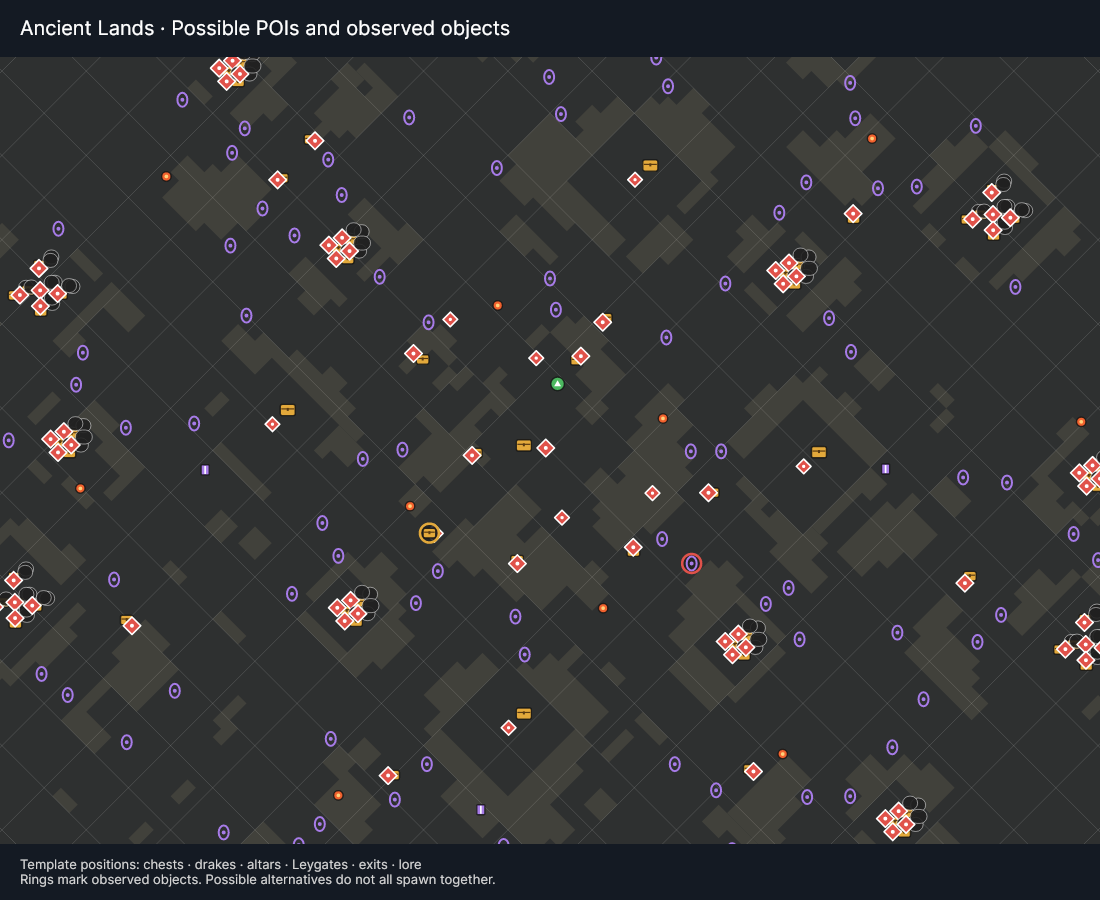
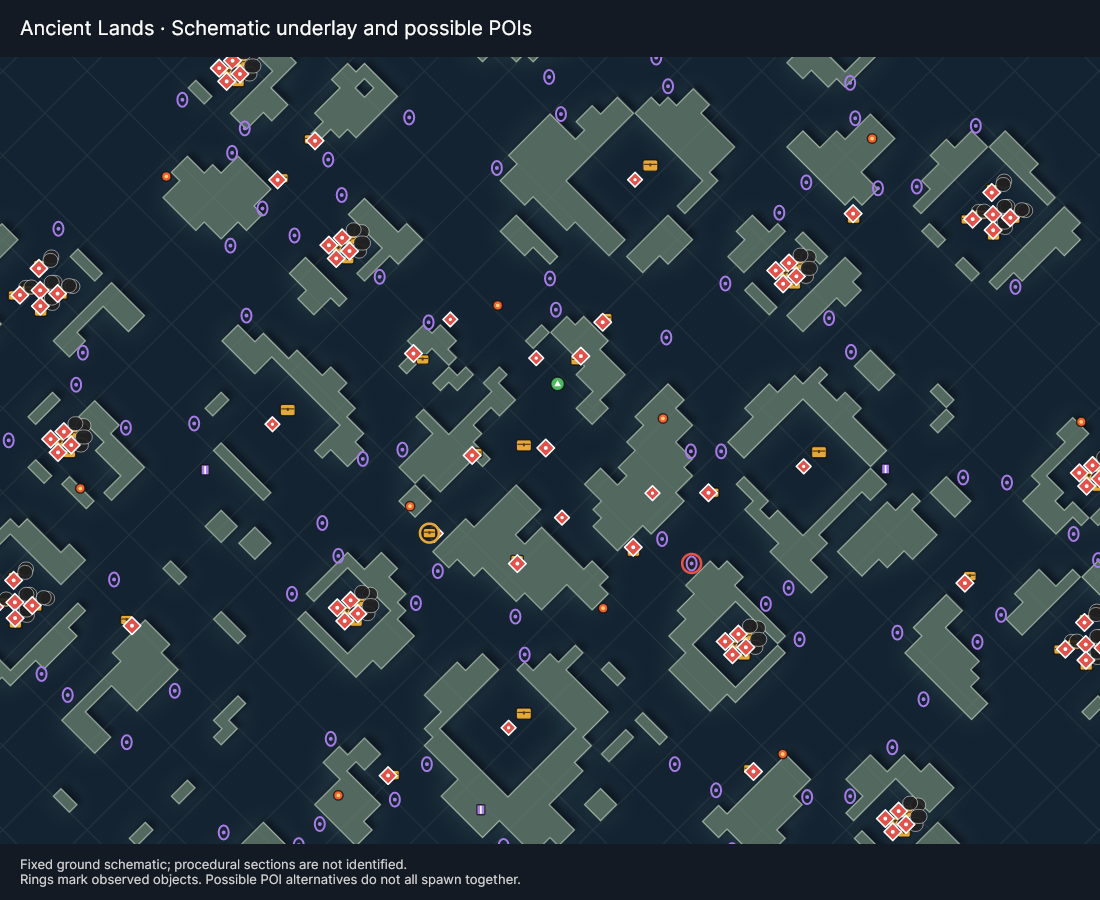
Add a bundled Ancient Lands schematic underlay

diff --git a/scripts/generate-ancient-lands-map.py b/scripts/generate-ancient-lands-map.py
@@ -112,6 +112,47 @@ def ground_cells(tiles):
     return cells
 
 
+def render_underlay(outline, low, high):
+    """Cartographic schematic, not game artwork or a navigability/elevation map.
+
+    Pixels use the declared world bounds: positive X/Z run right/down. The land
+    mask is exactly the exported five-metre cells; decoration never adds ground.
+    """
+    from PIL import Image, ImageChops, ImageDraw, ImageFilter
+    width, height = round(high[0]-low[0]), round(high[1]-low[1])
+    mask = Image.new('L', (width, height))
+    draw = ImageDraw.Draw(mask)
+    for a, b, c, d in outline:
+        draw.rectangle((round(a-low[0]), round(b-low[1]), round(c-low[0])-1, round(d-low[1])-1), fill=255)
+    image = Image.new('RGB', mask.size, '#142331')
+    # A diffuse rim and a small drop shadow separate known ground from the void.
+    halo = mask.filter(ImageFilter.GaussianBlur(9))
+    image.paste('#29414a', mask=halo)
+    shadow = Image.new('L', mask.size)
+    shadow.paste(mask, (0, 5))
+    image.paste('#0b151f', mask=shadow.filter(ImageFilter.GaussianBlur(3)))
+    image.paste('#53685f', mask=mask)
+    edge = ImageChops.subtract(mask, mask.filter(ImageFilter.MinFilter(3)))
+    image.paste('#9eafa0', mask=edge)
+    # Regular coordinate grid only: no invented contours, section shapes or paths.
+    grid = Image.new('RGB', mask.size, '#30414a')
+    grid_draw = ImageDraw.Draw(grid)
+    for x in range(math.ceil(low[0]/50)*50, math.ceil(high[0]/50)*50, 50):
+        grid_draw.line((x-low[0], 0, x-low[0], height), fill='#7b8c83')
+    for z in range(math.ceil(low[1]/50)*50, math.ceil(high[1]/50)*50, 50):
+        grid_draw.line((0, z-low[1], width, z-low[1]), fill='#7b8c83')
+    # Overlay only the grid lines, retaining the terrain colors between them.
+    grid_mask = Image.new('L', mask.size)
+    grid_draw = ImageDraw.Draw(grid_mask)
+    for x in range(math.ceil(low[0]/50)*50, math.ceil(high[0]/50)*50, 50):
+        grid_draw.line((x-low[0], 0, x-low[0], height), fill=36)
+    for z in range(math.ceil(low[1]/50)*50, math.ceil(high[1]/50)*50, 50):
+        grid_draw.line((0, z-low[1], width, z-low[1]), fill=36)
+    image.paste(grid, mask=grid_mask)
+    target = ROOT/'AlbionDataAvalonia/Assets/Maps/ancient-lands-schematic.webp'
+    image.save(target, lossless=True, method=6, exact=True)
+
+
 def main(source):
     source = Path(source)
     config = ET.parse(source/'dragonarea.xml').getroot()
@@ -203,6 +244,7 @@ def main(source):
     lines += ['    };','}','']
     target=ROOT/'AlbionDataAvalonia/Maps/AncientLandsMapData.g.cs'
     target.write_text('\n'.join(lines),encoding='utf-8')
+    render_underlay(outline, low, high)
     print('Source',revision,'outline',len(outline),'rectangles; candidates by mode', {k:len(v) for k,v in all_points.items()})
     print('Generic POI kinds',dict(Counter(x[0] for x in all_points['all'])))
 

diff --git a/AlbionDataAvalonia/ViewModels/ActivityMapViewModel.cs b/AlbionDataAvalonia/ViewModels/ActivityMapViewModel.cs
@@ -534,7 +534,7 @@ public sealed partial class ActivityMapViewModel : ObservableObject, IDisposable
                 ? "Showing the standard Abbey orientation. Its rotation has not been confirmed from an exit yet."
             : zone is { Zone: null } && live.Layout is null && AlbionLocations.ResolveActivityLocation(live.RawMapId).Kind == ActivityMapKind.Mists
                 ? "Finding this Mists layout. The map shows once a wisp or exit comes into view."
-            : zone is { Zone.MapCategory: "dragonarea" } ? "Ancient Lands: possible template POIs; alternatives do not all spawn together. Rings mark observed objects; Leygate availability is unknown."
+            : zone is { Zone.MapCategory: "dragonarea" } ? "Ancient Lands schematic from fixed ground geometry; procedural sections are not identified. POIs are possible alternatives; rings mark observations. Leygate availability is unknown."
             : zone is { Image: null, Zone.Outline.Count: > 0 } ? "No minimap for this zone. Its rough outline and rooms come from the game files."
             : zone is { Image: null, Zone.Rooms.Count: > 0 } ? "No minimap for this zone. Its rooms come from the game files."
             : zone is { Image: null } ? "No map image for this zone. Showing available map layers on a coordinate grid."
@@ -704,7 +704,7 @@ public sealed partial class ActivityMapViewModel : ObservableObject, IDisposable
                 ? "This visit has no confirmed Depths orientation. Showing the recorded path and observations."
             : zone is { Zone.MapCategory: "mistsdungeon" } && option.LayoutTurns is null
                 ? "Showing the standard Abbey orientation. No confirmed rotation was recorded for this visit."
-            : zone is { Zone.MapCategory: "dragonarea" } ? "Ancient Lands: possible template POIs; alternatives do not all spawn together. Rings mark observed objects; Leygate availability is unknown."
+            : zone is { Zone.MapCategory: "dragonarea" } ? "Ancient Lands schematic from fixed ground geometry; procedural sections are not identified. POIs are possible alternatives; rings mark observations. Leygate availability is unknown."
             : zone is { Image: null, Zone.Outline.Count: > 0 } ? "No minimap for this zone. Its rough outline and rooms come from the game files."
             : zone is { Image: null, Zone.Rooms.Count: > 0 } ? "No minimap for this zone. Its rooms come from the game files."
             : zone is { Image: null } ? "No map image for this zone. Showing available map layers on a coordinate grid."

diff --git a/AlbionDataAvalonia/Maps/MapDataService.cs b/AlbionDataAvalonia/Maps/MapDataService.cs
@@ -126,8 +126,8 @@ public sealed class MapDataService : IDisposable
             }
 
             var name = Path.GetFileNameWithoutExtension(zone.ImageFile);
-            var image = zone.ImageFile == MistsMapData.AbbeyImageFile
-                ? LoadAbbeyImage()
+            var image = IsBundledImage(zone.ImageFile)
+                ? LoadBundledImage(zone.ImageFile)
                 : LoadBitmapAsync($"{MapsBase}/images/{Uri.EscapeDataString(name)}.webp", Path.Combine("images", SafeFileName(name) + ".webp"));
             images.AddFirst((zone.ImageFile, image));
             // Decoded open-world minimaps are large, so only the last few stay in memory.
@@ -136,16 +136,18 @@ public sealed class MapDataService : IDisposable
         }
     }
 
-    private static Task<Bitmap?> LoadAbbeyImage()
+    private static bool IsBundledImage(string file) => file is MistsMapData.AbbeyImageFile or AncientLandsMapData.ImageFile;
+
+    private static Task<Bitmap?> LoadBundledImage(string file)
     {
         try
         {
-            using var stream = AssetLoader.Open(new Uri(MistsMapData.AbbeyImageFile));
+            using var stream = AssetLoader.Open(new Uri(file));
             return Task.FromResult<Bitmap?>(new Bitmap(stream));
         }
         catch (Exception error) when (error is IOException or InvalidOperationException)
         {
-            Log.Warning(error, "Could not load the bundled Abbey terrain image; using its schematic");
+            Log.Warning(error, "Could not load bundled map image {ImageFile}; using its schematic", file);
             return Task.FromResult<Bitmap?>(null);
         }
     }
@@ -175,7 +177,7 @@ public sealed class MapDataService : IDisposable
     /// but for the Mists and Depths spots that come with the app.</summary>
     public Task<MapZoneFeatures> GetFeaturesAsync(MapZone zone) =>
         // A zone the client draws itself has no AlbionWorld feature file.
-        (zone.ImageFile.Length == 0 || zone.ImageFile == MistsMapData.AbbeyImageFile) ? Task.FromResult(new MapZoneFeatures([], [], [.. MistsMapData.Pois(zone.Id), .. DepthsMapData.Pois(zone.Id), .. AncientLandsMapData.Pois(zone.Id)]))
+        (zone.ImageFile.Length == 0 || IsBundledImage(zone.ImageFile)) ? Task.FromResult(new MapZoneFeatures([], [], [.. MistsMapData.Pois(zone.Id), .. DepthsMapData.Pois(zone.Id), .. AncientLandsMapData.Pois(zone.Id)]))
             : features.GetOrAdd(zone.Id, _ => LoadFeaturesAsync(zone));
 
     public Task<Bitmap?> GetIconImageAsync(string markerType) =>

diff --git a/AlbionDataAvalonia/Maps/AncientLandsMapData.cs b/AlbionDataAvalonia/Maps/AncientLandsMapData.cs
@@ -8,6 +8,7 @@ namespace AlbionDataAvalonia.Maps;
 internal static partial class AncientLandsMapData
 {
     public const string Master = "DRAGON_001";
+    public const string ImageFile = "avares://AlbionDataAvalonia/Assets/Maps/ancient-lands-schematic.webp";
     private sealed record Variant(string Layer, int Tier, string Pvp);
 
     public static string? Layout(string rawMapId, string? layout)
@@ -25,8 +26,8 @@ internal static partial class AncientLandsMapData
         var id = Layout(rawMapId, layout);
         if (id is null) return null;
         Variants.TryGetValue(id, out var variant);
-        return new(id, "Ancient Lands", "", "dragonarea", variant?.Pvp ?? "", variant?.Tier,
-            BoundsMin, BoundsMax, [], Outline: Ground);
+        return new(id, "Ancient Lands", ImageFile, "dragonarea", variant?.Pvp ?? "", variant?.Tier,
+            BoundsMin, BoundsMax, [], Outline: Ground, ImageUsesWorldCoordinates: true);
     }
 
     public static IReadOnlyList<MapPoi> Pois(string layout)

diff --git a/docs/DEVELOPMENT.md b/docs/DEVELOPMENT.md
@@ -368,3 +368,8 @@ The POI layer is a union of possible positions from allowed section alternatives
 Existing observed mobs (including the bundled T6/T7 Drake definitions), chests, shrine and reward adapters now support Ancient Lands. Additional subscriptions reuse the shared `MistsLandmarkEvent` world-object value decoder for `NewTeleporterNode`, `NewDragonAreaExit` and `NewLoreSnippetObject` (ID 0 / position 1). `NewBuilding` uses the core building model's ID 0 / position 4 and is classified as an altar only near a bundled altar position. No numeric teleporter state, destination, timer or connection layout is inferred. Unsupported or malformed envelopes are ignored. These new event envelopes still require validation against a current Windows gameplay capture; synthetic packet checks establish adapter behavior, not the live game's wire schema.
 
 Observed objects retain the existing exact connection, capture-time and pending-Join guards, map memory and manual clear behavior. Empty loot chests are removed, leaving candidate positions intact. Moving mobs follow the existing movement/death path. Rings identify observed objects; their last-known positions can become stale. Live Ancient Lands banner and tooltips explain the distinction. The screenshot in `docs/screenshots/ancient-lands-map.png` is a native Avalonia map-canvas render with synthetic observed objects, not a gameplay capture.
+
+
+The Ancient Lands underlay is a bundled cartographic schematic generated alongside the C# data by the same exporter (Pillow is needed for regeneration). Its 1120×1120 pixels correspond to world bounds `(-560,-560)`–`(560,560)`, with positive X/Z right/down. The terrain mask is exactly the exported ground-cell union; rims and shadows improve contrast and imply no elevation. No terrain is inferred for procedural section alternatives. `ImageUsesWorldCoordinates` projects its three world corners through the same affine transform as actors and POIs, as for Abbey. The existing bitmap cache and local feature lookup now accept both embedded maps. Image failure retains the rectangle fallback; neither local image requests the CDN or decorative map frame. This is not a rendered game minimap. The exact island-section layout is still not recognized from landmarks: generic Ancient Lands entries use the supported fixed master, and only explicit known map IDs select a mode. Unknown explicit layouts retain the grid fallback.
+
+Underlay validation: the native external fixture passes 42 checks, including both embedded image loads, Ancient mode features, bitmap cache identity and zero HTTP requests with a rejecting handler. Independent source-pixel samples check ground/void world UVs, and regeneration produces identical C# and lossless WebP bytes. Debug build, 117 PoW tests, scoped formatting and UI-token checks pass.

diff --git a/README.md b/README.md
@@ -23,7 +23,7 @@ A free, open-source companion app for Albion Online on Windows, Linux and macOS.
 > - **Points of interest**: one map layer with the zone's points of interest from the game files: loot chests (open-world camp, faction and static chests, Corrupted Dungeon and Hellgate chests, and in the Mists the layout's camp slots with a ring where the camp's chest stands), boss spawn spots, shrines, mob camp spots and Mists wisp spawns. Roads chests already show as the game's icons.
 > - **Knightfall Abbey map**: the Mists dungeon uses a bundled terrain image with optional possible boss/miniboss, reward, chest, coffer, wisp-tree and lever spots from game templates.
 > - **Depths map**: the Depths have no minimap in the map data either, so each of their three floors is drawn from the game files on a grid: a rough outline of its ground, its demon camp rooms (with the floor's boss chance), its demon altars, its exits up (green) and down (blue), and its treasure chest, coffer, key and resurrection shrine spots.
-> - **Ancient Lands map**: a bundled island outline with possible chest, Drake, boss, altar, Leygate, exit and lore positions. Turn on **Points of interest** for candidates and **Dynamic POI** for observed objects. Alternative section positions do not all spawn together; a Leygate marker does not confirm an active connection.
+> - **Ancient Lands map**: a bundled cartographic underlay of fixed ground geometry with possible chest, Drake, boss, altar, Leygate, exit and lore positions. Turn on **Points of interest** for candidates and **Dynamic POI** for observed objects. Alternative section positions do not all spawn together; a Leygate marker does not confirm an active connection.
 > - **Dynamic POI**: a live map layer (off by default) with observed bosses, minibosses, dungeon entrances (including seasonal dungeons), chests and Halloween mobs. Mob positions are remembered after leaving view until cleared or the app closes. Other players can't be placed, since the game encrypts their positions, but **Hostile alert** flashes a red "!" over you for 3 seconds when a player outside your party, guild and alliance comes into view.
 > - **Capture through a VPN**: the client also reads game traffic on VPN tunnel adapters (sing-box, WireGuard, Wintun and similar), and **Settings › General › Network adapter** can limit capture to one adapter, such as the VPN's tunnel.
 > - **Fork releases**: every push to `master` publishes a [release of the fork](https://github.com/valorouscat/AlbionDataAvalonia/releases/latest) (version 1.0.x), and the installed client updates itself from it instead of the official releases. Other branches build a test installer as an Actions artifact.
